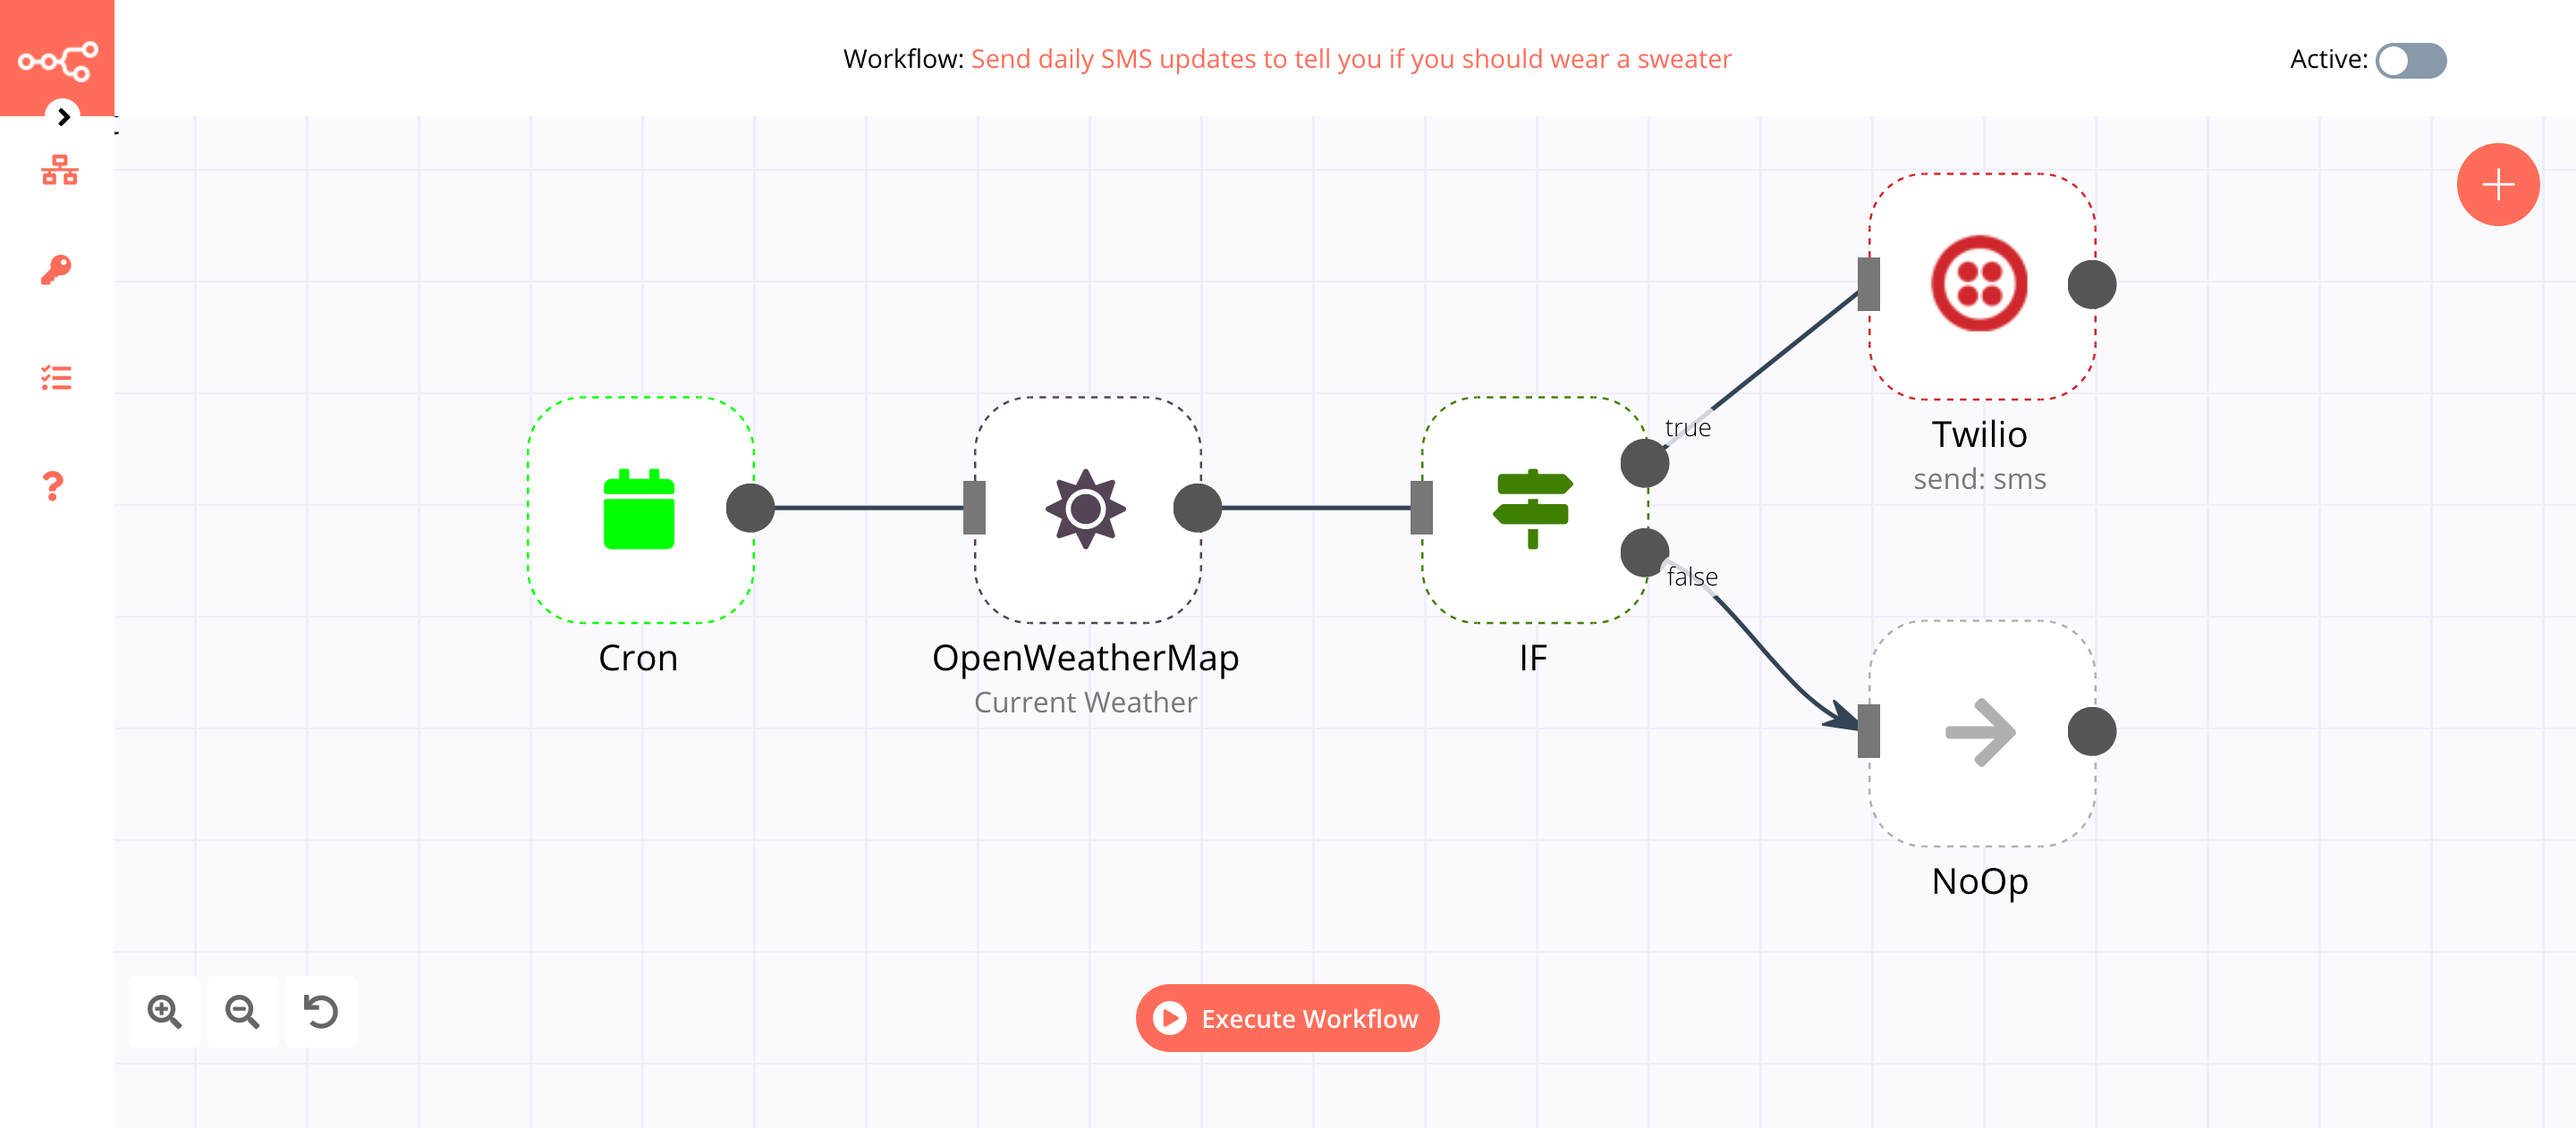
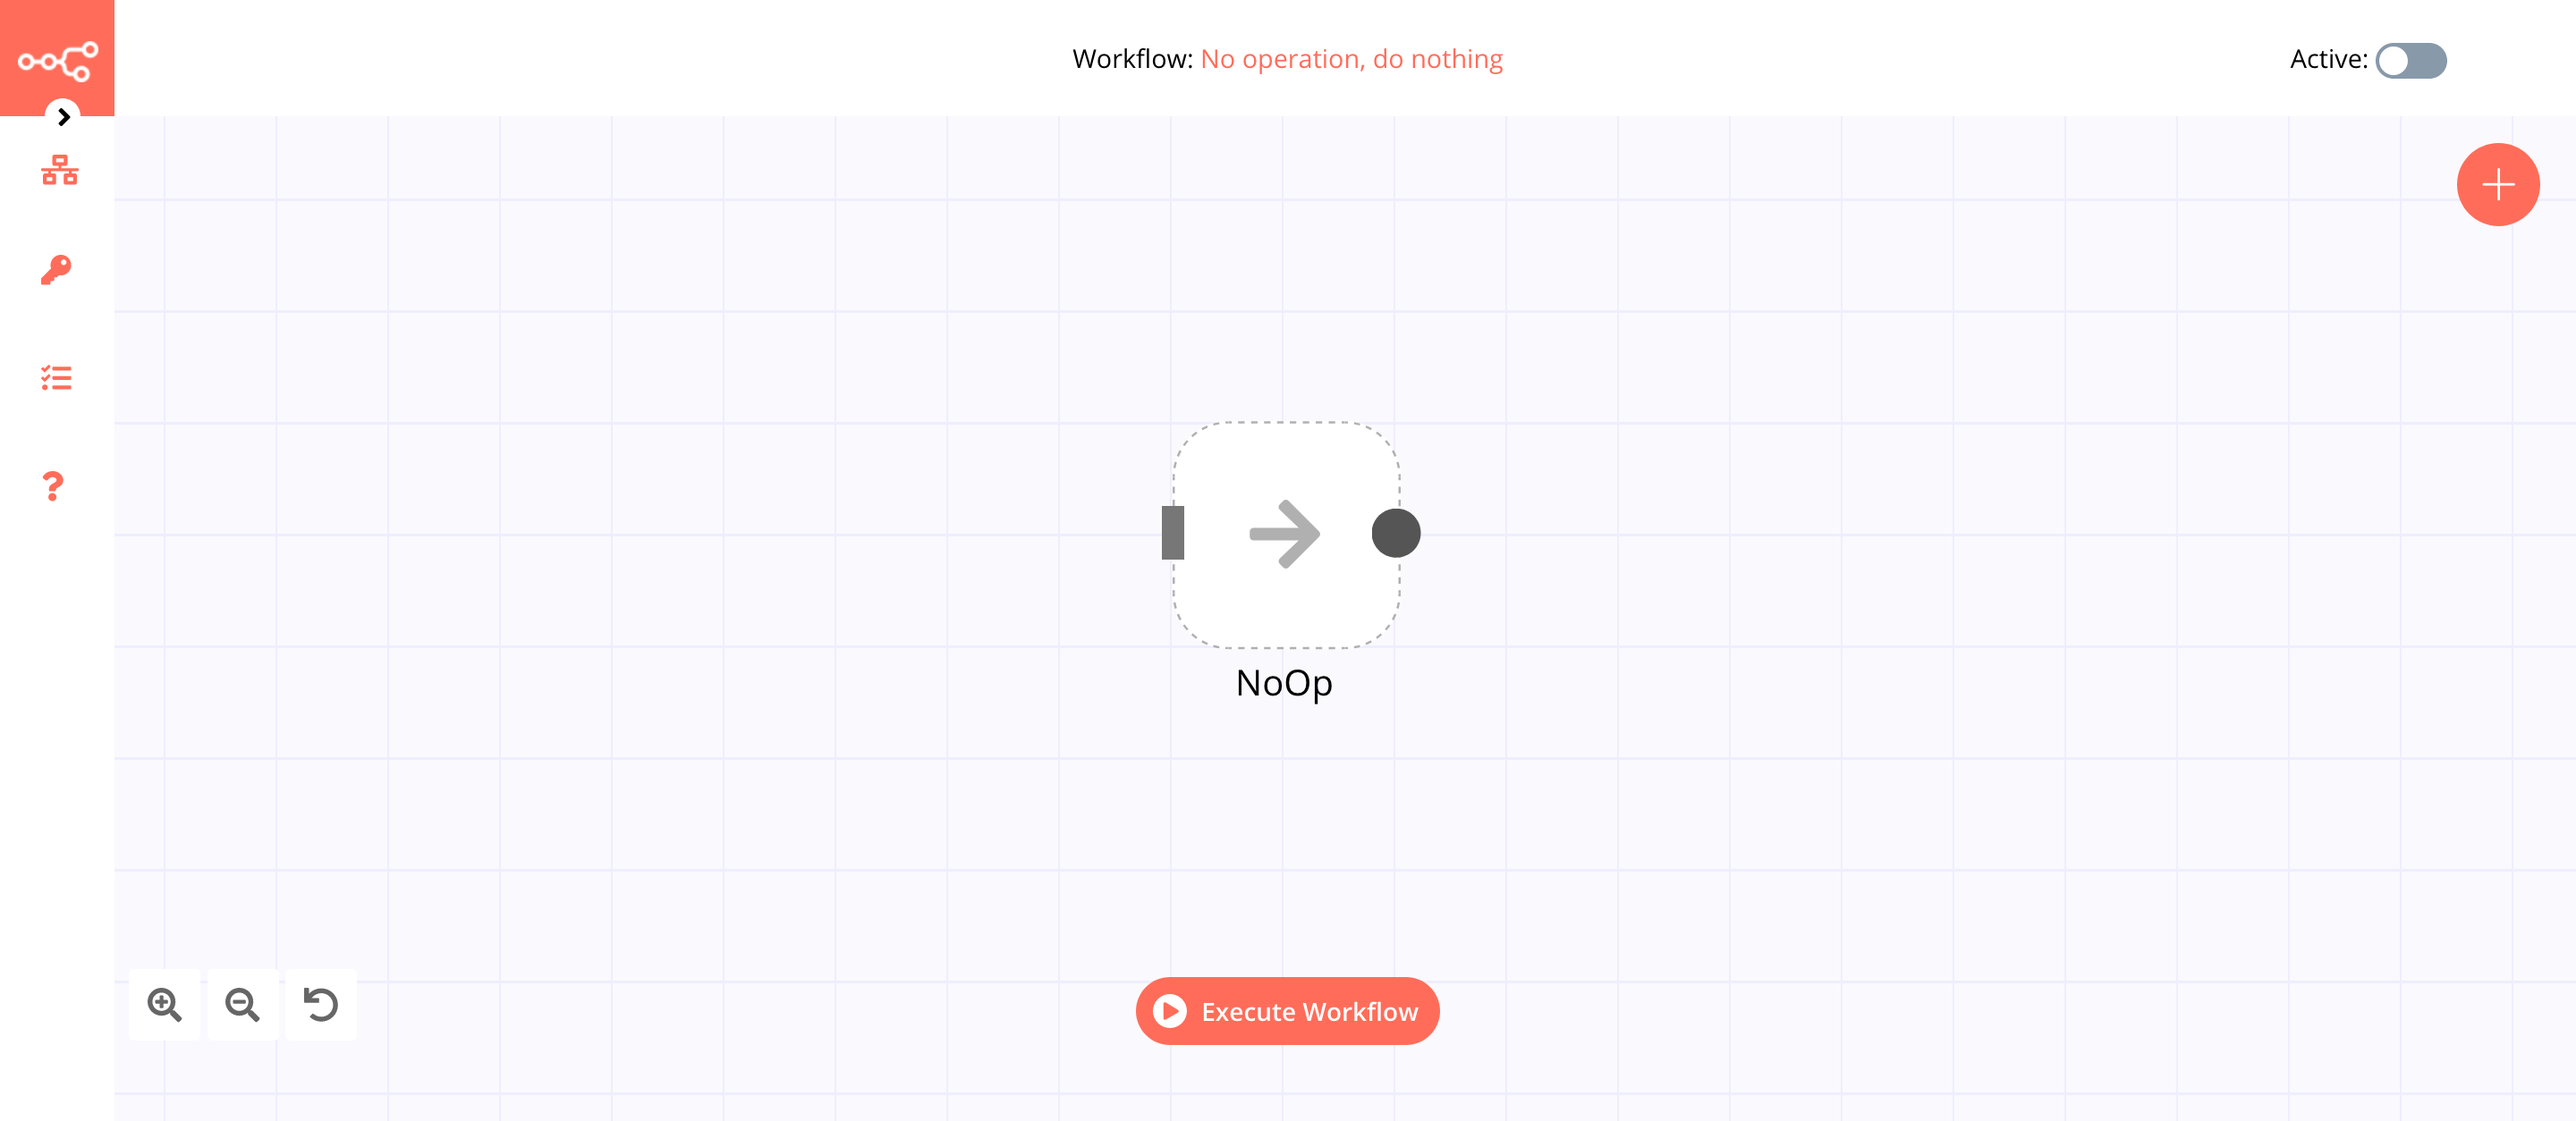
:sparkles: No operation, do nothing node docs

diff --git a/docs/nodes/nodes-library/core-nodes/NoOperationDoNothing/README.md b/docs/nodes/nodes-library/core-nodes/NoOperationDoNothing/README.md
@@ -6,62 +6,4 @@ permalink: /nodes/n8n-nodes-base.noOp
 
 The No Operation, do nothing node is used when you don't want to perform any operations.
 
-## Example Usage
-
-This workflow sends you daily SMS updates to tell you if you should wear a sweater. You can also find the [workflow](https://n8n.io/workflows/409) on n8n.io. This example usage workflow uses the following nodes.
-- [Cron](../../core-nodes/Cron/README.md)
-- [OpenWeatherMap](../../nodes/OpenWeatherMap/README.md)
-- [IF](../../core-nodes/IF/README.md)
-- [Twilio](../../nodes/Twilio/README.md)
-- [NoOp]()
-
-The final workflow should look like the following image.
-
 ![A workflow with the No Operation, do nothing node](./workflow.png)
-
-### 1. Cron node
-
-1. Click on the ***Add Cron Time*** button.
-2. Click on ***Execute Node*** to run the node.
-
-
-### 2. OpenWeatherMap node (Current Weather)
-
-1. First of all, you'll have to enter credentials for the OpenWeatherMap node. You can find out how to do that [here](../../../credentials/OpenWeatherMap/README.md).
-2. Enter the name of the city in the ***City*** field.
-3. Click on ***Execute Node*** to run the node.
-
-![Get the current weather using the OpenWeatherMap node](./OpenWeatherMap_node.png)
-
-::: v-pre
-### 3. IF node
-
-1. Click on the ***Add Condition*** button and select 'Number' from the dropdown list.
-2. Click on the gears icon next to the ***Value 1*** field and click on ***Add Expression***.
-3. Select the following in the ***Variable Selector*** section: Nodes > OpenWeatherMap > Output Data > JSON > main > feels_like. You can also add the following expression: `{{$node["OpenWeatherMap"].json["main"]["feels_like"]}}`.
-4. Enter `18` in the ***Value 2*** field.
-5. Click on ***Execute Node*** to run the node.
-:::
-
-![Check if the temperature is smaller than 18 using the IF node](./IF_node.png)
-
-::: v-pre
-### 4. Twilio node (send: sms)
-
-1. First of all, you'll have to enter credentials for the Twilio node. You can find out how to do that [here](../../../credentials/Twilio/README.md).
-2. Enter your Twilio number in the ***From*** field.
-3. Enter your mobile number in the ***To*** field.
-4. Click on the gears icon next to the ***Message*** field and click on ***Add Expression***.
-5. Enter the message `Wear a sweater today, it is {{$node["OpenWeatherMap"].json["main"]["feels_like"]}}°C outside right now.` in the ***Expression Editor***.
-6. Click on ***Execute Node*** to run the node.
-:::
-
-![Send weather updates via SMS using the Twilio node](./Twilio_node.png)
-
-::: v-pre
-### 5. No Operation, do nothing node
-
-1. Click on ***Execute Node*** to run the node.
-:::
-
-![Do nothing using the No Operation, do nothing node](./NoOperationDoNothing_node.png)
